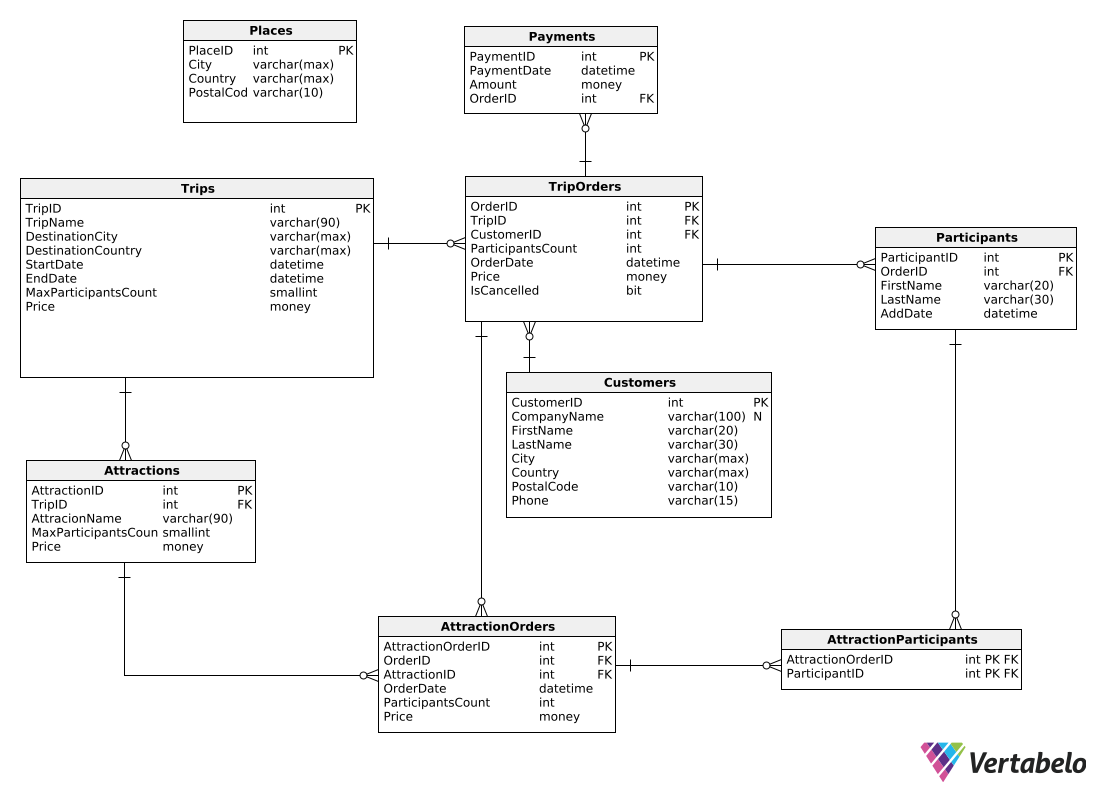
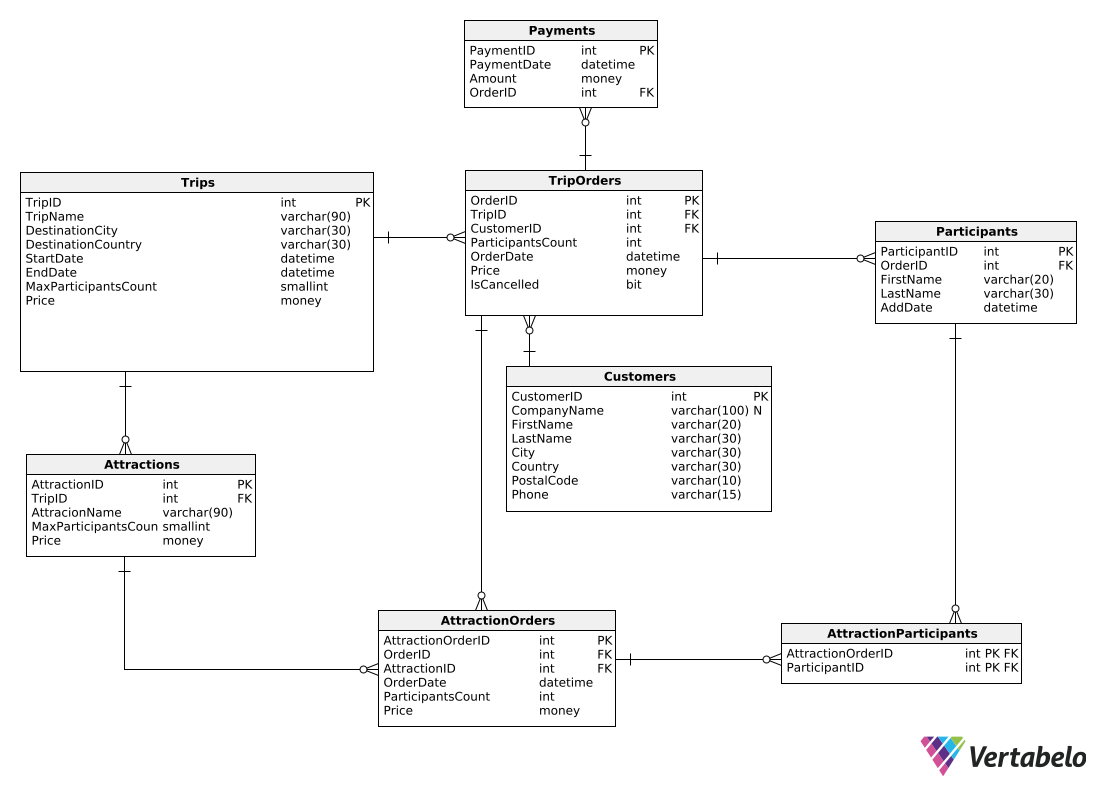
dolor sit amet

diff --git a/Sprawozdania/Sprawozdanie_1.md b/Sprawozdania/Sprawozdanie_1.md
@@ -112,8 +112,8 @@ Nazwa tabeli: **Customers**
 | CompanyName    | varchar(100) | Nazwa firmy klienta                 |
 | FirstName      | varchar(20)  | Imię klienta                        |
 | LastName       | varchar(30)  | Nazwisko klienta                    |
-| City           | varchar(max) | Miasto, w którym znajduje się firma |
-| Country        | varchar(max) | Kraj, w którym znajduje się firma   |
+| City           | varchar(30)  | Miasto, w którym znajduje się firma |
+| Country        | varchar(30)  | Kraj, w którym znajduje się firma   |
 | PostalCode     | varchar(10)  | Kod pocztowy                        |
 | Phone          | varchar(15)  | Telefon kontaktowy do klienta       |
 
@@ -125,8 +125,8 @@ CREATE TABLE Customers (
     CompanyName varchar(100)  NULL,
     FirstName varchar(20)  NOT NULL,
     LastName varchar(30)  NOT NULL,
-    City varchar(max)  NOT NULL,
-    Country varchar(max)  NOT NULL,
+    City varchar(30)  NOT NULL,
+    Country varchar(30)  NOT NULL,
     PostalCode varchar(10)  NOT NULL,
     Phone varchar(15)  NOT NULL,
     CONSTRAINT Customers_pk PRIMARY KEY  (CustomerID)
@@ -137,16 +137,16 @@ Nazwa tabeli: **Trips**
 
 - Opis: Tabela zawierająca informacje dotyczące dostępnych do zamówienia wycieczek.
 
-| Nazwa atrybutu       | Typ          | Opis/Uwagi                                      |
-| -------------------- | ------------ | ----------------------------------------------- |
-| TripID               | int          | Identyfikator wycieczki                         |
-| TripName             | varchar(90)  | Nazwa wycieczki                                 |
-| DestinationCity      | varchar(max) | Miasto, do którego jest wycieczka               |
-| DestinationCountry   | varchar(max) | Kraj, do którego jest wycieczka                 |
-| StartDate            | datetime     | Początek wycieczki                              |
-| EndDate              | datetime     | Koniec wycieczki                                |
-| MaxParticipantsCount | smallint     | Maksymalna liczba osób, które mogą uczestniczyć |
-| Price                | money        | Koszt wycieczki                                 |
+| Nazwa atrybutu       | Typ         | Opis/Uwagi                                      |
+| -------------------- | ----------- | ----------------------------------------------- |
+| TripID               | int         | Identyfikator wycieczki                         |
+| TripName             | varchar(90) | Nazwa wycieczki                                 |
+| DestinationCity      | varchar(30) | Miasto, do którego jest wycieczka               |
+| DestinationCountry   | varchar(30) | Kraj, do którego jest wycieczka                 |
+| StartDate            | datetime    | Początek wycieczki                              |
+| EndDate              | datetime    | Koniec wycieczki                                |
+| MaxParticipantsCount | smallint    | Maksymalna liczba osób, które mogą uczestniczyć |
+| Price                | money       | Koszt wycieczki                                 |
 
 - kod DDL
 
@@ -154,8 +154,8 @@ Nazwa tabeli: **Trips**
 CREATE TABLE Trips (
     TripID int  NOT NULL,
     TripName varchar(90)  NOT NULL,
-    DestinationCity varchar(max)  NOT NULL,
-    DestinationCountry varchar(max)  NOT NULL,
+    DestinationCity varchar(30)  NOT NULL,
+    DestinationCountry varchar(30)  NOT NULL,
     StartDate datetime  NOT NULL,
     EndDate datetime  NOT NULL,
     MaxParticipantsCount smallint  NOT NULL,
